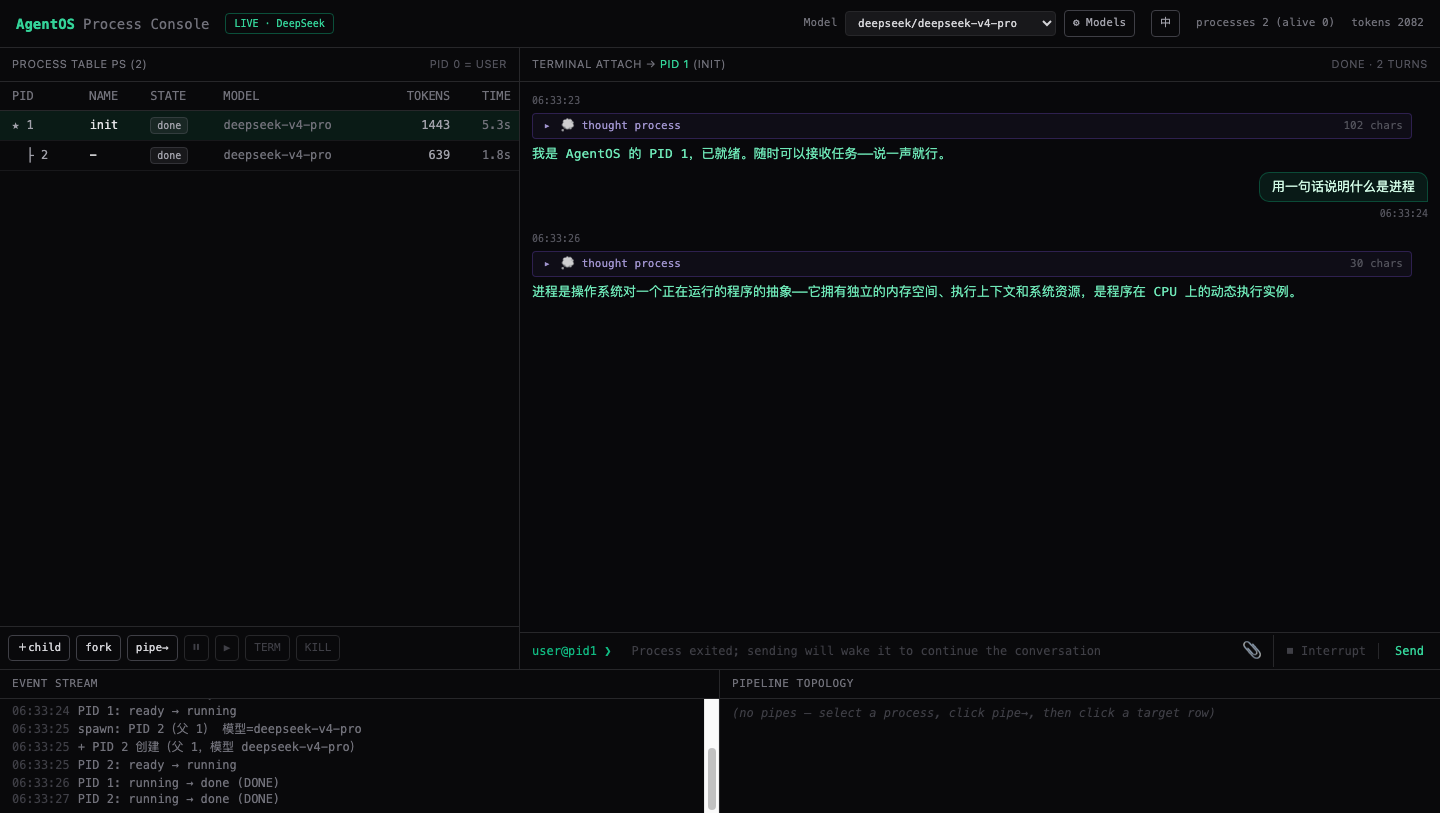
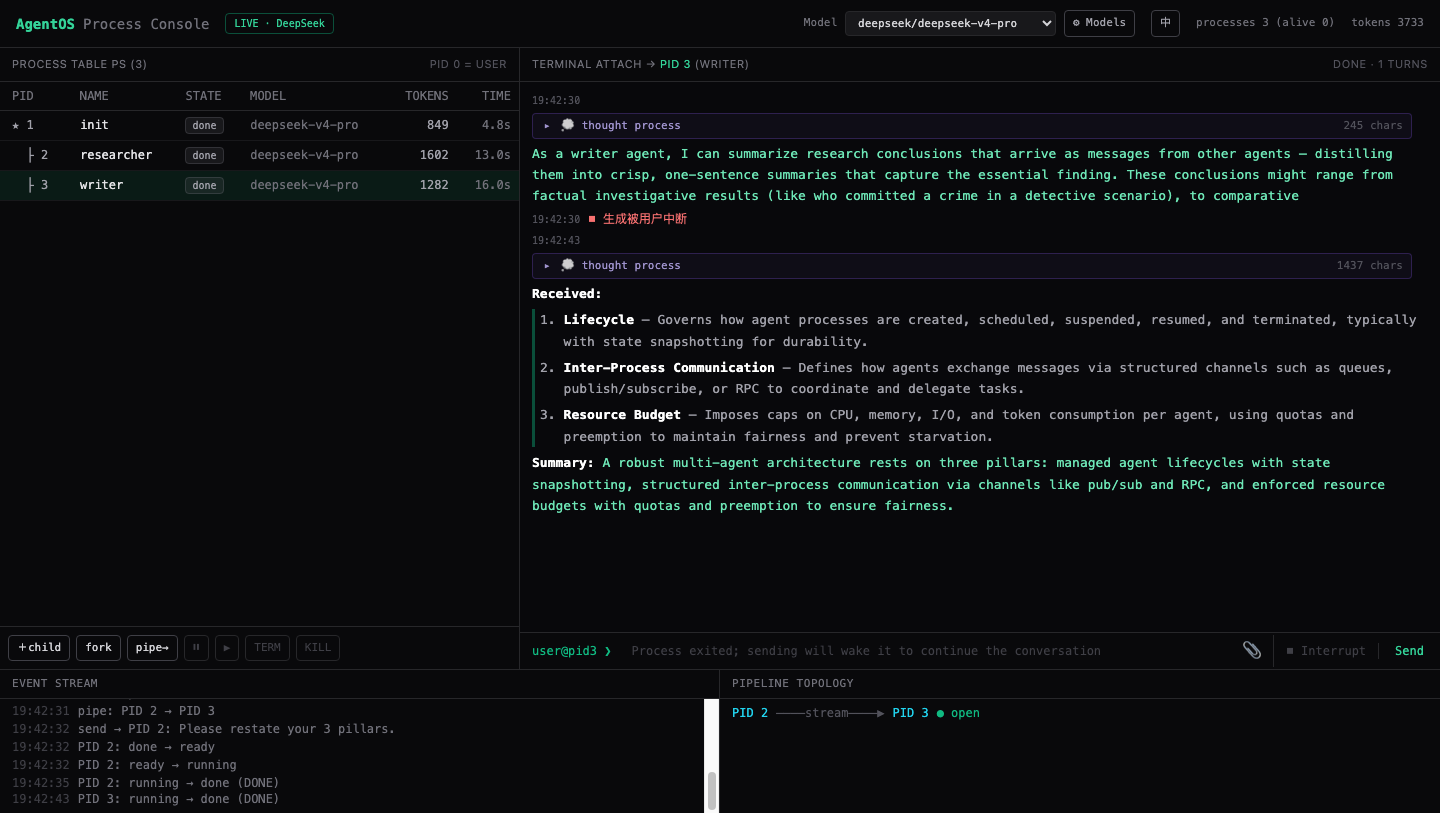
Rename DEEPSEEK_* env vars to OPENAI_*; README screenshots show inter-agent messaging
- .env vars renamed: DEEPSEEK_API_KEY -> OPENAI_API_KEY, DEEPSEEK_BASE_URL
  -> OPENAI_BASE_URL (OpenAI-compatible naming, values unchanged); updated
  across kernel worker, live server, examples, live tests, QA scripts, docs
- README.md hero screenshot now the English UI; console section shows the
  Chinese UI (zh-CN README unchanged: zh hero + en secondary)
- qa-i18n.mjs scenario rewritten to demo agent capabilities: researcher
  pipes its conclusion to an ON_INBOX writer (EINTR), which quotes the
  received message and summarizes; all-English conversation content

diff --git a/examples/multi-provider.ts b/examples/multi-provider.ts
@@ -1,7 +1,7 @@
 /**
  * 演示：多 LLM provider 混合调度。
  * OpenAI 做规划（强推理），DeepSeek 做执行（高性价比），按进程独立配置。
- * 运行：在 .env 配置 OPENAI_API_KEY 和 DEEPSEEK_API_KEY 后 npx tsx examples/multi-provider.ts
+ * 运行：在 .env 配置 OPENAI_API_KEY 和 OPENAI_BASE_URL 后 npx tsx examples/multi-provider.ts
  */
 import { AgentRuntime, OpenAIProvider, DeepSeekProvider } from '../src/index';
 
@@ -13,8 +13,8 @@ const rt = new AgentRuntime({
       // baseUrl: 'http://localhost:11434/v1',      // 或 Ollama / vLLM 本地
     }),
     new DeepSeekProvider({
-      apiKey: process.env.DEEPSEEK_API_KEY!,
-      baseUrl: process.env.DEEPSEEK_BASE_URL,
+      apiKey: process.env.OPENAI_API_KEY!,
+      baseUrl: process.env.OPENAI_BASE_URL,
     }),
   ],
   defaults: { model: { model: 'gpt-4o', provider: 'openai' } },

diff --git a/server/models.ts b/server/models.ts
@@ -2,7 +2,7 @@
  * 模型供应商注册表 —— 持久化到 server/models.json（含 apiKey，勿提交 git）。
  *
  * 结构：{ providers: [{ name, type, baseUrl?, apiKey, models[] }], defaultModel }
- * 启动时加载；无文件则用 DEEPSEEK_API_KEY 播种 deepseek 供应商并写回。
+ * 启动时加载；无文件则用 OPENAI_API_KEY 播种 deepseek 供应商并写回。
  */
 import fs from 'node:fs';
 import path from 'node:path';
@@ -42,9 +42,9 @@ export function loadRegistry(): ModelRegistry {
     return JSON.parse(fs.readFileSync(FILE, 'utf8')) as ModelRegistry;
   }
   // 播种：保持原行为（deepseek 双模型 + 默认 pro）
-  const apiKey = process.env.DEEPSEEK_API_KEY;
+  const apiKey = process.env.OPENAI_API_KEY;
   if (!apiKey) {
-    console.error('[agentos-server] 缺少 DEEPSEEK_API_KEY 且没有 models.json，无法启动');
+    console.error('[agentos-server] 缺少 OPENAI_API_KEY 且没有 models.json，无法启动');
     process.exit(1);
   }
   const seed: ModelRegistry = {

diff --git a/tests/integration/deepseek.live.test.ts b/tests/integration/deepseek.live.test.ts
@@ -3,12 +3,12 @@ import { AgentRuntime } from '../../src/core/runtime';
 import { DeepSeekProvider } from '../../src/llm/deepseek';
 import type { Tool } from '../../src/types';
 
-const RUN = process.env.RUN_LIVE === '1' && !!process.env.DEEPSEEK_API_KEY;
+const RUN = process.env.RUN_LIVE === '1' && !!process.env.OPENAI_API_KEY;
 
 function liveRuntime() {
   const deepseek = new DeepSeekProvider({
-    apiKey: process.env.DEEPSEEK_API_KEY!,
-    baseUrl: process.env.DEEPSEEK_BASE_URL ?? 'https://api.deepseek.com',
+    apiKey: process.env.OPENAI_API_KEY!,
+    baseUrl: process.env.OPENAI_BASE_URL ?? 'https://api.deepseek.com',
     timeoutMs: 55_000,
   });
   return new AgentRuntime({

diff --git a/tests/integration/live.e2e.test.ts b/tests/integration/live.e2e.test.ts
@@ -8,12 +8,12 @@ import { textOf } from '../../src/types';
 import { DeepSeekProvider } from '../../src/llm/deepseek';
 import type { Tool } from '../../src/types';
 
-const RUN = process.env.RUN_LIVE === '1' && !!process.env.DEEPSEEK_API_KEY;
+const RUN = process.env.RUN_LIVE === '1' && !!process.env.OPENAI_API_KEY;
 
 function liveRuntime(opts: Record<string, unknown> = {}) {
   const deepseek = new DeepSeekProvider({
-    apiKey: process.env.DEEPSEEK_API_KEY!,
-    baseUrl: process.env.DEEPSEEK_BASE_URL ?? 'https://api.deepseek.com',
+    apiKey: process.env.OPENAI_API_KEY!,
+    baseUrl: process.env.OPENAI_BASE_URL ?? 'https://api.deepseek.com',
     timeoutMs: 55_000,
   });
   return new AgentRuntime({

diff --git a/examples/demo.ts b/examples/demo.ts
@@ -1,11 +1,11 @@
 /**
  * 演示：pro 父进程 + 两个 flash 子进程并发调研，管道汇总，fork 分支评审。
- * 运行：DEEPSEEK_API_KEY 在 .env 中；npx tsx examples/demo.ts（或编入测试运行）
+ * 运行：OPENAI_API_KEY 在 .env 中；npx tsx examples/demo.ts（或编入测试运行）
  */
 import { AgentRuntime, DeepSeekProvider } from '../src/index';
 
 const rt = new AgentRuntime({
-  providers: [new DeepSeekProvider({ apiKey: process.env.DEEPSEEK_API_KEY! })],
+  providers: [new DeepSeekProvider({ apiKey: process.env.OPENAI_API_KEY! })],
   defaults: { model: { model: 'deepseek-v4-pro' } },
   models: { pro: 'deepseek-v4-pro', flash: 'deepseek-v4-flash' },
   budget: { tokens: 200_000 },

diff --git a/server/index.ts b/server/index.ts
@@ -1,7 +1,7 @@
 /**
  * AgentOS live server —— 前端控制台的真实模型后端。
  *
- *   DEEPSEEK_API_KEY=sk-... npm run server        （默认 :8787）
+ *   OPENAI_API_KEY=sk-... npm run server        （默认 :8787）
  *
  * 协议（与 UI 的 RemoteDriver 对齐）：
  *   GET  /api/state   → { ps, pipes, outputs }   全量快照（含各进程 stdout 历史）

diff --git a/docs/AgentOS-需求文档.md b/docs/AgentOS-需求文档.md
@@ -120,7 +120,7 @@ CREATED → READY → RUNNING ⇄ BLOCKED(ON_LLM / ON_TOOL / ON_CHILD / ON_SEM /
    - `deepseek-v4-flash`（别名 `flash`）：快速模型，用于执行与子任务类 Process
 3. 推理参数：`temperature`、`maxTokens`、`topP`，进程级覆盖，未设置继承父进程，均未设置取 runtime 默认值
 4. Runtime 默认配置示例：`{ model: 'deepseek-v4-pro', temperature: 0.7 }`
-5. 测试环境通过 `.env` 注入 `DEEPSEEK_API_KEY`、`DEEPSEEK_BASE_URL`
+5. 测试环境通过 `.env` 注入 `OPENAI_API_KEY`、`OPENAI_BASE_URL`
 6. 所有 LLM 调用记录 `model` 与 `usage`（prompt/completion/total tokens），计入预算并体现在 ps() 快照
 
 ## 6. 非功能需求

diff --git a/docs/PRD.en.md b/docs/PRD.en.md
@@ -122,7 +122,7 @@ CREATED → READY → RUNNING ⇄ BLOCKED(ON_LLM / ON_TOOL / ON_CHILD / ON_SEM /
    - `deepseek-v4-flash` (alias `flash`): fast model, for execution and subtask Processes
 3. Inference parameters: `temperature`, `maxTokens`, `topP`; overridable per process, inherited from the parent when unset, and falling back to the runtime default when unset everywhere
 4. Example runtime default configuration: `{ model: 'deepseek-v4-pro', temperature: 0.7 }`
-5. The test environment injects `DEEPSEEK_API_KEY` and `DEEPSEEK_BASE_URL` via `.env`
+5. The test environment injects `OPENAI_API_KEY` and `OPENAI_BASE_URL` via `.env`
 6. Every LLM call records `model` and `usage` (prompt/completion/total tokens), which count toward the budget and appear in ps() snapshots
 
 ## 6. Non-Functional Requirements

diff --git a/docs/PRD.md b/docs/PRD.md
@@ -122,7 +122,7 @@ CREATED → READY → RUNNING ⇄ BLOCKED(ON_LLM / ON_TOOL / ON_CHILD / ON_SEM /
    - `deepseek-v4-flash`（别名 `flash`）：快速模型，用于执行与子任务类 Process
 3. 推理参数：`temperature`、`maxTokens`、`topP`，进程级覆盖，未设置继承父进程，均未设置取 runtime 默认值
 4. Runtime 默认配置示例：`{ model: 'deepseek-v4-pro', temperature: 0.7 }`
-5. 测试环境通过 `.env` 注入 `DEEPSEEK_API_KEY`、`DEEPSEEK_BASE_URL`
+5. 测试环境通过 `.env` 注入 `OPENAI_API_KEY`、`OPENAI_BASE_URL`
 6. 所有 LLM 调用记录 `model` 与 `usage`（prompt/completion/total tokens），计入预算并体现在 ps() 快照
 
 ## 6. 非功能需求